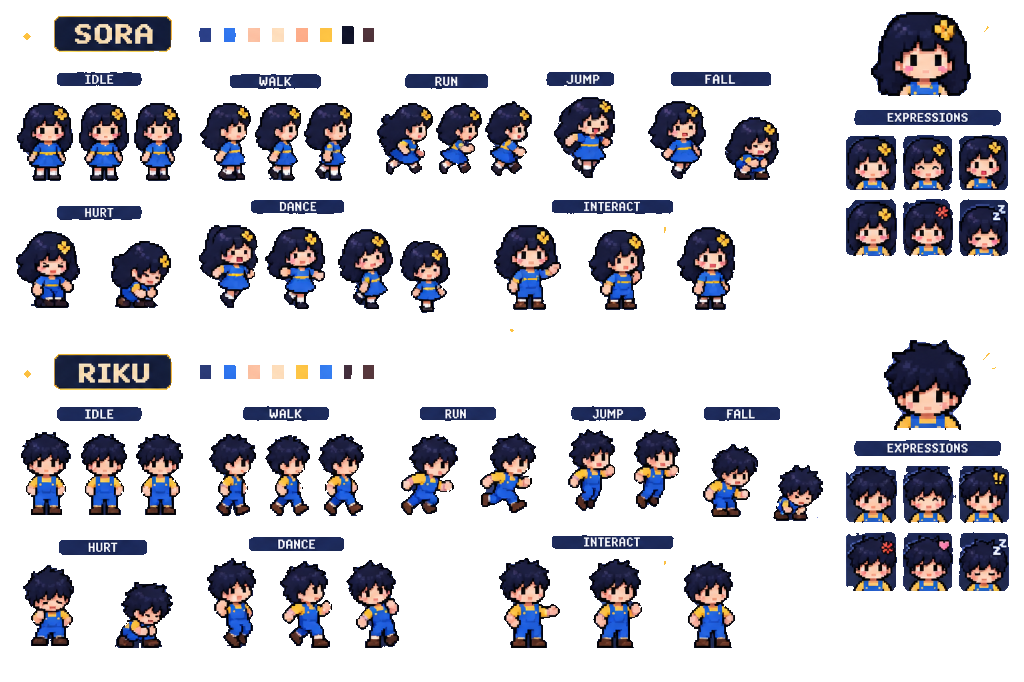
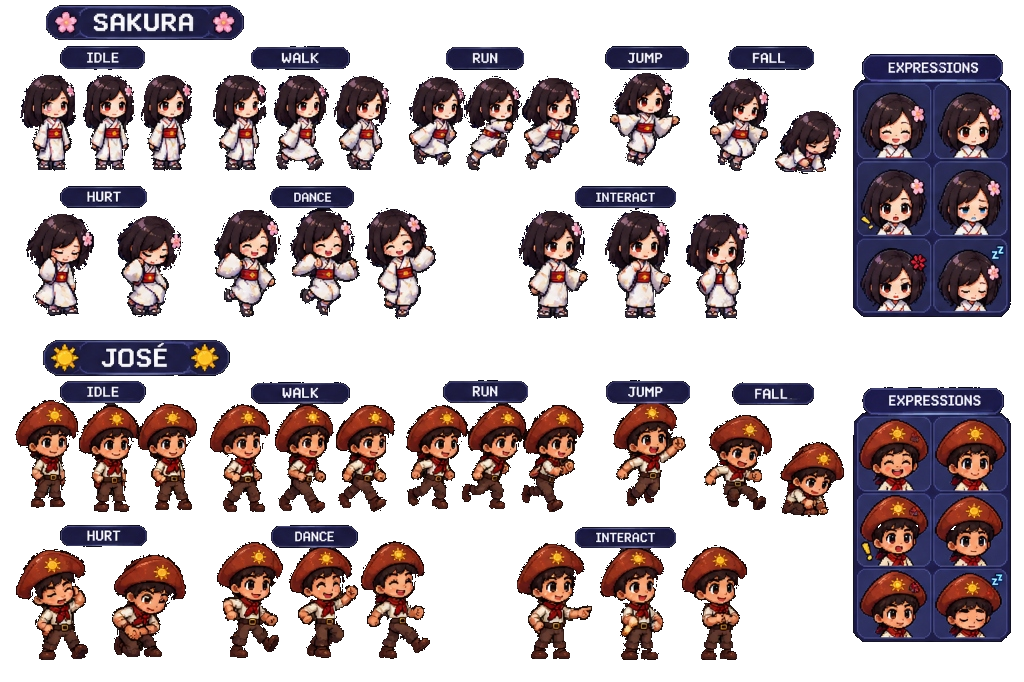
feat: substituir Sora e Riku pelos novos personagens Sakura e Jose (sprites, retratos, animacao e traducoes)

diff --git a/js/i18n.js b/js/i18n.js
@@ -5,8 +5,8 @@ const I18N = {
     pick_hint: 'TOQUE NO PERSONAGEM PARA ESCOLHER',
     controls_hint: 'Setas / A D: mover · Cima / Espaço: pular · Baixo / S: descer · P: pausa',
     dialogue_ok: 'BORA AJUDAR!',
-    dialogue_male: 'Ei, você aí do outro lado da tela! Eu sou o Sora! Preciso atravessar Assaí até o Castelo Japonês. Cuidado com os bichinhos... e fica a dica: tente acender todas as lanternas pelo caminho, dizem que algo especial acontece! Me ajuda?',
-    dialogue_female: 'Oi, você aí olhando pra tela! Eu sou a Riku! Quero chegar ao Castelo Japonês de Assaí. Uma dica: não deixe nenhuma lanterna apagada pelo caminho, ouvi dizer que uma surpresa aparece para quem acende todas! Vamos juntos?',
+    dialogue_male: 'Ei, você aí do outro lado da tela! Eu sou o José! Preciso atravessar Assaí até o Castelo Japonês. Cuidado com os bichinhos... e fica a dica: tente acender todas as lanternas pelo caminho, dizem que algo especial acontece! Me ajuda?',
+    dialogue_female: 'Oi, você aí olhando pra tela! Eu sou a Sakura! Quero chegar ao Castelo Japonês de Assaí. Uma dica: não deixe nenhuma lanterna apagada pelo caminho, ouvi dizer que uma surpresa aparece para quem acende todas! Vamos juntos?',
     hud_score: 'PONTOS', hud_sakura: 'SAKURAS', hud_time: 'TEMPO', hud_stage: 'FASE',
     stage_word: 'FASE', stage1: 'AVENIDA DOS IPÊS', stage2: 'PARQUE IKEDA', stage3: 'RUMO AO CASTELO', stageS: 'JARDIM SECRETO',
     result_title: 'FASE CONCLUÍDA!', r_time: 'Tempo', r_par: 'meta', r_score: 'Pontos da fase', r_lanterns: 'Lanternas',
@@ -39,8 +39,8 @@ const I18N = {
     pick_hint: 'TAP A CHARACTER TO CHOOSE',
     controls_hint: 'Arrows / A D: move · Up / Space: jump · Down / S: drop · P: pause',
     dialogue_ok: "LET'S GO!",
-    dialogue_male: "Hey, you on the other side of the screen! I'm Sora! I need to cross Assaí to reach the Japanese Castle. Watch out for the bugs... and here's a tip: try lighting every lantern along the way, they say something special happens! Will you help me?",
-    dialogue_female: "Hi, you looking at the screen! I'm Riku! I want to reach the Japanese Castle of Assaí. A quick tip: don't leave any lantern unlit along the way, I heard a surprise appears if you light them all! Shall we go together?",
+    dialogue_male: "Hey, you on the other side of the screen! I'm José! I need to cross Assaí to reach the Japanese Castle. Watch out for the bugs... and here's a tip: try lighting every lantern along the way, they say something special happens! Will you help me?",
+    dialogue_female: "Hi, you looking at the screen! I'm Sakura! I want to reach the Japanese Castle of Assaí. A quick tip: don't leave any lantern unlit along the way, I heard a surprise appears if you light them all! Shall we go together?",
     hud_score: 'SCORE', hud_sakura: 'SAKURAS', hud_time: 'TIME', hud_stage: 'STAGE',
     stage_word: 'STAGE', stage1: 'IPÊ AVENUE', stage2: 'IKEDA PARK', stage3: 'TO THE CASTLE', stageS: 'SECRET GARDEN',
     result_title: 'STAGE CLEAR!', r_time: 'Time', r_par: 'goal', r_score: 'Stage points', r_lanterns: 'Lanterns',
@@ -73,8 +73,8 @@ const I18N = {
     pick_hint: 'TOCA UN PERSONAJE PARA ELEGIR',
     controls_hint: 'Flechas / A D: mover · Arriba / Espacio: saltar · Abajo / S: bajar · P: pausa',
     dialogue_ok: '¡VAMOS!',
-    dialogue_male: '¡Oye, tú del otro lado de la pantalla! ¡Soy Sora! Necesito cruzar Assaí hasta el Castillo Japonés. Cuidado con los bichitos... y un consejo: intenta encender todos los faroles del camino, ¡dicen que algo especial sucede! ¿Me ayudas?',
-    dialogue_female: '¡Hola, tú que miras la pantalla! ¡Soy Riku! Quiero llegar al Castillo Japonés de Assaí. Un consejo: no dejes ningún farol apagado en el camino, ¡dicen que aparece una sorpresa si los enciendes todos! ¿Vamos juntos?',
+    dialogue_male: '¡Oye, tú del otro lado de la pantalla! ¡Soy José! Necesito cruzar Assaí hasta el Castillo Japonés. Cuidado con los bichitos... y un consejo: intenta encender todos los faroles del camino, ¡dicen que algo especial sucede! ¿Me ayudas?',
+    dialogue_female: '¡Hola, tú que miras la pantalla! ¡Soy Sakura! Quiero llegar al Castillo Japonés de Assaí. Un consejo: no dejes ningún farol apagado en el camino, ¡dicen que aparece una sorpresa si los enciendes todos! ¿Vamos juntos?',
     hud_score: 'PUNTOS', hud_sakura: 'SAKURAS', hud_time: 'TIEMPO', hud_stage: 'FASE',
     stage_word: 'FASE', stage1: 'AVENIDA DE LOS IPÊS', stage2: 'PARQUE IKEDA', stage3: 'RUMBO AL CASTILLO', stageS: 'JARDÍN SECRETO',
     result_title: '¡FASE COMPLETADA!', r_time: 'Tiempo', r_par: 'meta', r_score: 'Puntos de la fase', r_lanterns: 'Faroles',
@@ -107,8 +107,8 @@ const I18N = {
     pick_hint: 'キャラクターを選んでください',
     controls_hint: '矢印 / A D: 移動 · 上 / Space: ジャンプ · 下 / S: 降りる · P: 一時停止',
     dialogue_ok: '手伝うよ！',
-    dialogue_male: 'やあ、画面の向こうの君！僕はソラ！アサイの街を抜けて日本城まで行きたいんだ。虫たちに気をつけて…ヒントだよ、道中の提灯を全部灯すと、何か特別なことが起きるらしいんだ！手伝ってくれる？',
-    dialogue_female: 'こんにちは、画面を見ている君！私はリク！アサイの日本城を目指しているの。ちょっとしたヒントだけど、道中の提灯をすべて灯すと素敵な驚きが待っているって聞いたよ！一緒に行こう？',
+    dialogue_male: 'やあ、画面の向こうの君！僕はジョゼ！アサイの街を抜けて日本城まで行きたいんだ。虫たちに気をつけて…ヒントだよ、道中の提灯を全部灯すと、何か特別なことが起きるらしいんだ！手伝ってくれる？',
+    dialogue_female: 'こんにちは、画面を見ている君！私はサクラ！アサイの日本城を目指しているの。ちょっとしたヒントだけど、道中の提灯をすべて灯すと素敵な驚きが待っているって聞いたよ！一緒に行こう？',
     hud_score: 'スコア', hud_sakura: 'サクラ', hud_time: 'タイム', hud_stage: 'ステージ',
     stage_word: 'ステージ', stage1: 'イペー並木道', stage2: '池田公園', stage3: '日本城への道', stageS: '秘密の庭園',
     result_title: 'ステージクリア！', r_time: 'タイム', r_par: '目標', r_score: 'ステージ得点', r_lanterns: '提灯',

diff --git a/js/game.js b/js/game.js
@@ -364,7 +364,7 @@ async function saveScore() {
   const name = (hostPlayer && hostPlayer.name) || $('player-name').value.trim() || t('player');
   const entry = {
     playerId: hostPlayer ? hostPlayer.id : null, name, score, stars: totalStars,
-    character: selectedCharacter === 'male' ? 'Sora' : 'Riku',
+    character: selectedCharacter === 'male' ? 'José' : 'Sakura',
     timeSeconds: Math.round(totalFrames / 60), won: state === 'won', date: new Date().toISOString(),
   };
   try { await rankingProvider.submit(entry); } catch (e) { /* falha silenciosa */ }
@@ -447,9 +447,9 @@ function startGame(withIntro = true) {
 }
 
 function showIntro() {
-  const isSora = selectedCharacter === 'male';
-  $('dialogue-speaker').textContent = isSora ? 'SORA' : 'RIKU';
-  $('dialogue-avatar-img').src = isSora ? 'assets/portrait-sora.png?v=12' : 'assets/portrait-riku.png?v=12';
+  const isJose = selectedCharacter === 'male';
+  $('dialogue-speaker').textContent = isJose ? 'JOSÉ' : 'SAKURA';
+  $('dialogue-avatar-img').src = isJose ? 'assets/portrait-jose.png?v=21' : 'assets/portrait-sakura.png?v=21';
   const full = t('dialogue_' + selectedCharacter);
   $('dialogue-text').textContent = '';
   $('dialogue-box').classList.remove('hidden');
@@ -549,7 +549,7 @@ function endGame(won) {
   updateMobileControls();
   Audio8.stopMusic();
   if (won) { Audio8.sfx.win(); if (!tookDamage) unlock('nohit'); } else Audio8.sfx.gameover();
-  const name = selectedCharacter === 'male' ? 'Sora' : 'Riku';
+  const name = selectedCharacter === 'male' ? 'José' : 'Sakura';
   $('end-title').textContent = won ? t('victory') : t('gameover');
   $('end-message').textContent = t(won ? 'end_win' : 'end_lose', { name });
   $('final-score-val').textContent = score;
@@ -720,45 +720,27 @@ function update() {
   const targetTilt = player.onGround ? player.vx * 0.035 : player.vx * 0.025;
   player.tilt += (targetTilt - player.tilt) * 0.2;
 
-  // Animacao de caminhada: masculino usa ciclo anterior (walk/run por distancia); feminino usa ~8.5 FPS com timing variavel
+  // Ciclo de caminhada a ~8.5 FPS com duracao variavel (hold no Contact, passagem mais rapida) para José e Sakura
   if (player.onGround && Math.abs(player.vx) > 0.15) {
-    if (selectedCharacter === 'male') {
-      player.walkDist += Math.abs(player.vx);
-      const curStep = Math.floor(player.walkDist / 13);
-      if (curStep > player.stepTick) {
-        player.stepTick = curStep;
+    const walkList = (CHAR_ANIMS[selectedCharacter] || CHAR_ANIMS.male).walk;
+    const curFrame = walkList[player.walkIdx % walkList.length];
+    const speedFactor = Math.max(0.45, Math.abs(player.vx) / SPEED);
+    player.walkTimer += speedFactor;
+    if (player.walkTimer >= 7.2 * (curFrame.dur || 1)) {
+      player.walkTimer = 0;
+      player.walkIdx = (player.walkIdx + 1) % walkList.length;
+      const nextFrame = walkList[player.walkIdx];
+      if (nextFrame.step) {
         particles.push({
           x: player.x + player.w / 2 - player.facing * 4,
           y: player.y + player.h - 1,
-          vx: -player.facing * (0.25 + Math.random() * 0.25),
-          vy: -0.25 - Math.random() * 0.2,
-          life: 16, max: 16, c: 'rgba(255,255,255,0.85)', s: 2, up: false,
+          vx: -player.facing * (0.2 + Math.random() * 0.22),
+          vy: -0.22 - Math.random() * 0.18,
+          life: 16, max: 16, c: 'rgba(255,255,255,0.82)', s: 2, up: false,
         });
-      }
-    } else {
-      const walkList = (CHAR_ANIMS[selectedCharacter] || CHAR_ANIMS.female).walk;
-      const curFrame = walkList[player.walkIdx % walkList.length];
-      // Velocidade de avanco proporcional ao deslocamento real (~7 frames base por passo = ~8.5 FPS)
-      const speedFactor = Math.max(0.45, Math.abs(player.vx) / SPEED);
-      player.walkTimer += speedFactor;
-      if (player.walkTimer >= 7.2 * (curFrame.dur || 1)) {
-        player.walkTimer = 0;
-        player.walkIdx = (player.walkIdx + 1) % walkList.length;
-        const nextFrame = walkList[player.walkIdx];
-        if (nextFrame.step) {
-          particles.push({
-            x: player.x + player.w / 2 - player.facing * 4,
-            y: player.y + player.h - 1,
-            vx: -player.facing * (0.2 + Math.random() * 0.22),
-            vy: -0.22 - Math.random() * 0.18,
-            life: 16, max: 16, c: 'rgba(255,255,255,0.82)', s: 2, up: false,
-          });
-        }
       }
     }
   } else if (player.onGround) {
-    player.walkDist = 0;
-    player.stepTick = 0;
     player.walkIdx = 0;
     player.walkTimer = 0;
   }
@@ -1116,7 +1098,6 @@ function drawPlayer() {
   let yOffset = 0;
   let sx = player.sx;
   let sy = player.sy;
-  let tilt = selectedCharacter === 'male' ? 0 : player.tilt;
   if (player.inv > 65) {
     anim = 'hurt';
   } else if (!player.onGround) {
@@ -1126,27 +1107,17 @@ function drawPlayer() {
     } else {
       anim = 'fall';
     }
-    if (selectedCharacter === 'male') tilt = player.vx * 0.03;
   } else if (Math.abs(player.vx) > 0.15) {
-    if (selectedCharacter === 'male') {
-      const running = Math.abs(player.vx) > 1.2;
-      anim = running ? 'run' : 'walk';
-      const phase = player.walkDist * 0.28;
-      idx = Math.floor(player.walkDist / (running ? 7 : 6));
-      yOffset = -Math.abs(Math.sin(phase)) * (running ? 1.8 : 1.1);
-      tilt = player.vx * 0.045;
-    } else {
-      anim = 'walk';
-      idx = player.walkIdx;
-      const f = (CHAR_ANIMS[selectedCharacter] || CHAR_ANIMS.female).walk[idx % 4];
-      yOffset = f.bob || 0;
-      sx *= (f.sx || 1);
-      sy *= (f.sy || 1);
-    }
+    anim = 'walk';
+    idx = player.walkIdx;
+    const f = (CHAR_ANIMS[selectedCharacter] || CHAR_ANIMS.male).walk[idx % 4];
+    yOffset = f.bob || 0;
+    sx *= (f.sx || 1);
+    sy *= (f.sy || 1);
   } else {
     yOffset = Math.floor(frame / 34) % 2 === 0 ? 0 : 1;
   }
-  drawChibiFrame(ctx, selectedCharacter, anim, idx, player.x + player.w / 2, player.y + player.h + 1, player.facing < 0, yOffset, sx, sy, tilt);
+  drawChibiFrame(ctx, selectedCharacter, anim, idx, player.x + player.w / 2, player.y + player.h + 1, player.facing < 0, yOffset, sx, sy, player.tilt);
 }
 
 function drawWorld() {

diff --git a/js/sprites.js b/js/sprites.js
@@ -10,39 +10,34 @@ const PALETTE = {
 
 // ---------- Sprite Sheet Chibi Original (assets/char-sheet.png) ----------
 const charSheetImg = new Image();
-charSheetImg.src = 'assets/char-sheet.png?v=16';
+charSheetImg.src = 'assets/char-sheet.png?v=21';
 
 const CHAR_ANIMS = {
+  // José (masculino)
   male: {
-    idle: [{ x: 19, y: 430, w: 54, h: 87 }],
+    idle: [{ x: 15, y: 401, w: 65, h: 107 }],
     walk: [
-      { x: 208, y: 432, w: 50, h: 86 },
-      { x: 264, y: 432, w: 48, h: 86 },
-      { x: 317, y: 432, w: 49, h: 86 },
-      { x: 264, y: 432, w: 48, h: 86 },
+      { x: 210, y: 404, w: 60, h: 108, dur: 1.25, bob: 0,    sx: 1.04, sy: 0.96, step: true },
+      { x: 275, y: 404, w: 59, h: 109, dur: 0.80, bob: -1.4, sx: 0.97, sy: 1.03, step: false },
+      { x: 336, y: 405, w: 59, h: 107, dur: 1.25, bob: 0,    sx: 1.04, sy: 0.96, step: true },
+      { x: 275, y: 404, w: 59, h: 109, dur: 0.80, bob: -1.4, sx: 0.97, sy: 1.03, step: false },
     ],
-    run: [
-      { x: 399, y: 432, w: 60, h: 85 },
-      { x: 479, y: 432, w: 59, h: 83 },
-    ],
-    jump: [
-      { x: 567, y: 428, w: 50, h: 84 },
-      { x: 632, y: 428, w: 50, h: 83 },
-    ],
-    fall: [{ x: 702, y: 443, w: 58, h: 77 }],
-    hurt: [{ x: 21, y: 564, w: 55, h: 85 }],
+    jump: [{ x: 613, y: 403, w: 73, h: 103 }],
+    fall: [{ x: 704, y: 415, w: 68, h: 95 }],
+    hurt: [{ x: 16, y: 549, w: 72, h: 111 }],
   },
+  // Sakura (feminino)
   female: {
-    idle: [{ x: 15, y: 101, w: 61, h: 81 }],
+    idle: [{ x: 20, y: 74, w: 56, h: 97 }],
     walk: [
-      { x: 198, y: 101, w: 53, h: 81, dur: 1.25, bob: 0,    sx: 1.04, sy: 0.96, step: true },
-      { x: 252, y: 101, w: 51, h: 81, dur: 0.80, bob: -1.4, sx: 0.97, sy: 1.03, step: false },
-      { x: 302, y: 101, w: 52, h: 81, dur: 1.25, bob: 0,    sx: 1.04, sy: 0.96, step: true },
-      { x: 252, y: 101, w: 51, h: 81, dur: 0.80, bob: -1.4, sx: 0.97, sy: 1.03, step: false },
+      { x: 213, y: 75, w: 54, h: 96, dur: 1.25, bob: 0,    sx: 1.04, sy: 0.96, step: true },
+      { x: 274, y: 75, w: 55, h: 96, dur: 0.80, bob: -1.4, sx: 0.97, sy: 1.03, step: false },
+      { x: 333, y: 76, w: 58, h: 94, dur: 1.25, bob: 0,    sx: 1.04, sy: 0.96, step: true },
+      { x: 274, y: 75, w: 55, h: 96, dur: 0.80, bob: -1.4, sx: 0.97, sy: 1.03, step: false },
     ],
-    jump: [{ x: 552, y: 95, w: 65, h: 85 }],
-    fall: [{ x: 646, y: 99, w: 62, h: 82 }],
-    hurt: [{ x: 14, y: 229, w: 68, h: 81 }],
+    jump: [{ x: 610, y: 73, w: 70, h: 93 }],
+    fall: [{ x: 709, y: 78, w: 60, h: 93 }],
+    hurt: [{ x: 26, y: 214, w: 68, h: 102 }],
   },
 };
 
@@ -51,7 +46,8 @@ function drawChibiFrame(ctx, charKey, animName, frameIdx, centerX, bottomY, flip
   const set = CHAR_ANIMS[charKey] || CHAR_ANIMS.male;
   const list = set[animName] || set.idle;
   const f = list[frameIdx % list.length];
-  const targetHeight = 27;
+  // José tem chapéu mais alto, então compensa a altura para ambos terem o mesmo porte de corpo
+  const targetHeight = charKey === 'male' ? 29.5 : 27;
   const scale = targetHeight / set.idle[0].h;
   const dw = f.w * scale;
   const dh = f.h * scale;

diff --git a/index.html b/index.html
@@ -73,17 +73,17 @@
           <h1 class="rpg-title">AVENTURAS<br />POR ASSAÍ</h1>
           <span class="sparkle s-right">✦</span>
         </div>
-        <div class="rpg-subtitle">◆ SORA &amp; RIKU ◆</div>
+        <div class="rpg-subtitle">◆ SAKURA &amp; JOSÉ ◆</div>
       </div>
 
       <div class="title-hero">
         <button class="medallion-btn selected" id="select-male">
-          <div class="medallion-ring"><img src="assets/portrait-sora.png?v=13" alt="Sora" class="medallion-img" /></div>
-          <span class="medallion-name">SORA</span>
+          <div class="medallion-ring"><img src="assets/portrait-jose.png?v=21" alt="José" class="medallion-img" /></div>
+          <span class="medallion-name">JOSÉ</span>
         </button>
         <button class="medallion-btn" id="select-female">
-          <div class="medallion-ring"><img src="assets/portrait-riku.png?v=13" alt="Riku" class="medallion-img" /></div>
-          <span class="medallion-name">RIKU</span>
+          <div class="medallion-ring"><img src="assets/portrait-sakura.png?v=21" alt="Sakura" class="medallion-img" /></div>
+          <span class="medallion-name">SAKURA</span>
         </button>
       </div>
 
@@ -113,9 +113,9 @@
     <!-- Diálogo (4ª parede) -->
     <div id="dialogue-box" class="dialogue-overlay hidden">
       <div class="rpg-dialogue-card">
-        <div class="dialogue-medallion"><img id="dialogue-avatar-img" src="assets/portrait-sora.png?v=13" alt="" class="medallion-img" /></div>
+        <div class="dialogue-medallion"><img id="dialogue-avatar-img" src="assets/portrait-jose.png?v=21" alt="" class="medallion-img" /></div>
         <div class="dialogue-content">
-          <div id="dialogue-speaker" class="dialogue-speaker">SORA</div>
+          <div id="dialogue-speaker" class="dialogue-speaker">JOSÉ</div>
           <p id="dialogue-text" class="dialogue-text"></p>
           <div class="dialogue-actions">
             <button id="btn-dialogue-ok" class="rpg-start-btn small">
@@ -247,9 +247,9 @@
     </div>
   </div>
 
-  <script src="js/i18n.js?v=20"></script>
-  <script src="js/audio.js?v=20"></script>
-  <script src="js/sprites.js?v=20"></script>
-  <script src="js/game.js?v=20"></script>
+  <script src="js/i18n.js?v=21"></script>
+  <script src="js/audio.js?v=21"></script>
+  <script src="js/sprites.js?v=21"></script>
+  <script src="js/game.js?v=21"></script>
 </body>
 </html>

diff --git a/README.md b/README.md
@@ -9,7 +9,7 @@ Um jogo de plataforma 2D em **Pixel Art** com densidade uniforme (384×216 nativ
 
 ## Recursos
 
-- **2 Personagens jogáveis:** **Sora** e **Riku**, com diálogo de abertura quebrando a 4ª parede.
+- **2 Personagens jogáveis:** **Sakura** e **José**, com diálogo de abertura quebrando a 4ª parede.
 - **3 Fases + 1 Fase Secreta:**
   1. **1-1 — Avenida dos Ipês (Dia):** cerejeiras, ipês brancos e amarelos, Toriis e cidade ao fundo com efeito paralaxe.
   2. **1-2 — Parque Ikeda (Entardecer):** laguinho com Torii iluminado, plataformas móveis e uma passagem escondida para a fase secreta (desbloqueada ao acender todas as lanternas).
